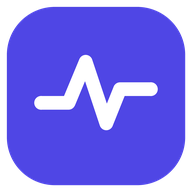
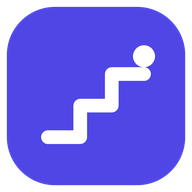
Replace the pulse-wave brand mark with the learning staircase

Changed region(s): [[0.1562, 0.2188, 0.8438, 0.75]]

diff --git a/design-system/foundations/brand.html b/design-system/foundations/brand.html
@@ -1,7 +1,7 @@
 <!-- @dsCard group="Foundations" name="ブランド" subtitle="ロゴ実物・ロックアップ・使用ルール・代表コピー・免責文言" width="900" height="760" -->
 <!--
   使い方 (AI向け):
-  - ロゴマークはパルス波形 (.brand-mark)。角丸スクエア+primary塗りに白の波形ライン1本。viewBoxとパスは不変、width/heightのみ拡大縮小してよい。
+  - ロゴマークは学びの階段 (.brand-mark)。角丸スクエア+primary塗りに、白の階段ライン+到達点ドット。viewBoxとパスは不変、width/heightのみ拡大縮小してよい。
   - ロックアップは「マーク + 臨床学術WG」の組合せのみ。ワードマークを単独で図形化したり、旧 Learning Loop ロゴと混在させたりしない。
   - 免責文言・テーマ分類6語彙は一字一句・語順とも変更せずそのまま流用する。
 -->
@@ -121,14 +121,14 @@
     <div class="mark-card panel">
       <svg class="brand-mark" width="28" height="28" viewBox="0 0 28 28" xmlns="http://www.w3.org/2000/svg">
         <rect x="1" y="1" width="26" height="26" rx="7" fill="#4f46e5"/>
-        <path d="M6 15h4l2.5-6 3 9 2-5h4.5" fill="none" stroke="#ffffff" stroke-width="2" stroke-linecap="round" stroke-linejoin="round"/>
+        <path d="M7 20h4.7v-4.6h4.6v-4.6H21" fill="none" stroke="#ffffff" stroke-width="2" stroke-linecap="round" stroke-linejoin="round"/><circle cx="21" cy="8.2" r="1.6" fill="#ffffff"/>
       </svg>
       <span class="mark-caption">標準 28px</span>
     </div>
     <div class="mark-card panel">
       <svg class="brand-mark" width="96" height="96" viewBox="0 0 28 28" xmlns="http://www.w3.org/2000/svg">
         <rect x="1" y="1" width="26" height="26" rx="7" fill="#4f46e5"/>
-        <path d="M6 15h4l2.5-6 3 9 2-5h4.5" fill="none" stroke="#ffffff" stroke-width="2" stroke-linecap="round" stroke-linejoin="round"/>
+        <path d="M7 20h4.7v-4.6h4.6v-4.6H21" fill="none" stroke="#ffffff" stroke-width="2" stroke-linecap="round" stroke-linejoin="round"/><circle cx="21" cy="8.2" r="1.6" fill="#ffffff"/>
       </svg>
       <span class="mark-caption">拡大 96px (viewBox・パス不変)</span>
     </div>
@@ -138,7 +138,7 @@
   <div class="lockup-card panel">
     <svg class="brand-mark" width="28" height="28" viewBox="0 0 28 28" xmlns="http://www.w3.org/2000/svg">
       <rect x="1" y="1" width="26" height="26" rx="7" fill="#4f46e5"/>
-      <path d="M6 15h4l2.5-6 3 9 2-5h4.5" fill="none" stroke="#ffffff" stroke-width="2" stroke-linecap="round" stroke-linejoin="round"/>
+      <path d="M7 20h4.7v-4.6h4.6v-4.6H21" fill="none" stroke="#ffffff" stroke-width="2" stroke-linecap="round" stroke-linejoin="round"/><circle cx="21" cy="8.2" r="1.6" fill="#ffffff"/>
     </svg>
     <span class="brand-name">臨床学術WG</span>
   </div>
@@ -147,15 +147,15 @@
   <ul class="rule-list panel">
     <li><b>最小サイズ:</b> マークは20px相当を下回らせない。20px未満ではワードマークを外し、マーク単体でも使わない。</li>
     <li><b>余白:</b> マークの周囲にマーク幅の0.5倍以上のクリアスペースを確保する。</li>
-    <li><b>改変禁止:</b> 形・色・比率(角丸rx=7/28・波形パスの座標)を変更しない。塗り色の差し替えや単色化もしない。</li>
-    <li><b>旧ロゴ混在禁止:</b> 旧 Learning Loop ロゴや代替アイコンを同一資料内で併用しない。</li>
+    <li><b>改変禁止:</b> 形・色・比率(角丸rx=7/28・階段パスと到達点ドットの座標)を変更しない。塗り色の差し替えや単色化もしない。</li>
+    <li><b>旧ロゴ混在禁止:</b> 旧ロゴ (Learning Loop・パルス波形) や代替アイコンを同一資料内で併用しない。</li>
   </ul>
 
   <div class="spec-label">ダーク面での見え方</div>
   <div class="dark-demo">
     <svg class="brand-mark" width="28" height="28" viewBox="0 0 28 28" xmlns="http://www.w3.org/2000/svg">
       <rect x="1" y="1" width="26" height="26" rx="7" fill="#4f46e5"/>
-      <path d="M6 15h4l2.5-6 3 9 2-5h4.5" fill="none" stroke="#ffffff" stroke-width="2" stroke-linecap="round" stroke-linejoin="round"/>
+      <path d="M7 20h4.7v-4.6h4.6v-4.6H21" fill="none" stroke="#ffffff" stroke-width="2" stroke-linecap="round" stroke-linejoin="round"/><circle cx="21" cy="8.2" r="1.6" fill="#ffffff"/>
     </svg>
     <span class="brand-name">臨床学術WG</span>
   </div>

diff --git a/design-system/templates/social.html b/design-system/templates/social.html
@@ -144,7 +144,7 @@
           </div>
           <div class="sq-foot">
             <div class="lockup">
-              <svg class="lockup-mark" width="68" height="68" viewBox="0 0 28 28" aria-hidden="true"><rect x="1" y="1" width="26" height="26" rx="7" fill="#4f46e5"/><path d="M6 15h4l2.5-6 3 9 2-5h4.5" fill="none" stroke="#ffffff" stroke-width="2" stroke-linecap="round" stroke-linejoin="round"/></svg>
+              <svg class="lockup-mark" width="68" height="68" viewBox="0 0 28 28" aria-hidden="true"><rect x="1" y="1" width="26" height="26" rx="7" fill="#4f46e5"/><path d="M7 20h4.7v-4.6h4.6v-4.6H21" fill="none" stroke="#ffffff" stroke-width="2" stroke-linecap="round" stroke-linejoin="round"/><circle cx="21" cy="8.2" r="1.6" fill="#ffffff"/></svg>
               <span class="lockup-name">臨床学術WG</span>
             </div>
           </div>
@@ -168,7 +168,7 @@
           </div>
           <div class="og-bottom">
             <div class="lockup">
-              <svg class="lockup-mark" width="44" height="44" viewBox="0 0 28 28" aria-hidden="true"><rect x="1" y="1" width="26" height="26" rx="7" fill="#4f46e5"/><path d="M6 15h4l2.5-6 3 9 2-5h4.5" fill="none" stroke="#ffffff" stroke-width="2" stroke-linecap="round" stroke-linejoin="round"/></svg>
+              <svg class="lockup-mark" width="44" height="44" viewBox="0 0 28 28" aria-hidden="true"><rect x="1" y="1" width="26" height="26" rx="7" fill="#4f46e5"/><path d="M7 20h4.7v-4.6h4.6v-4.6H21" fill="none" stroke="#ffffff" stroke-width="2" stroke-linecap="round" stroke-linejoin="round"/><circle cx="21" cy="8.2" r="1.6" fill="#ffffff"/></svg>
               <span class="lockup-name">臨床学術ワーキンググループ</span>
             </div>
           </div>

diff --git a/design-system/tokens/tokens.css b/design-system/tokens/tokens.css
@@ -62,13 +62,14 @@
   --warning-tint: rgba(180, 83, 9, 0.12);
   --danger-tint: rgba(185, 28, 28, 0.12);
 
-  /* ロゴマーク (パルス波形)
-     角丸スクエア (rx=7/28) の primary塗りに、白のパルス波形ライン (stroke 2/28)。
-     学びの継続的なリズム・臨床のバイタルサインを表す。
+  /* ロゴマーク (学びの階段)
+     角丸スクエア (rx=7/28) の primary塗りに、白の階段ライン (stroke 2/28) と到達点ドット。
+     入門→標準→実践と段階を上がるコース設計・学びの積み上げを表す。
      サイト実体は public/images/logo.svg (ヘッダーは app/components/app-header.tsx に同一パス)。
      SVGパス: <rect x="1" y="1" width="26" height="26" rx="7" fill="var(--primary)"/>
-              <path d="M6 15h4l2.5-6 3 9 2-5h4.5" fill="none" stroke="var(--on-primary)"
-                    stroke-width="2" stroke-linecap="round" stroke-linejoin="round"/> (viewBox 0 0 28 28)
+              <path d="M7 20h4.7v-4.6h4.6v-4.6H21" fill="none" stroke="var(--on-primary)"
+                    stroke-width="2" stroke-linecap="round" stroke-linejoin="round"/>
+              <circle cx="21" cy="8.2" r="1.6" fill="var(--on-primary)"/> (viewBox 0 0 28 28)
      色・形・比率は改変しない。プレビューHTMLには同じインラインSVGを複製する。 */
 }
 

diff --git a/design-system/templates/onepager.html b/design-system/templates/onepager.html
@@ -141,7 +141,7 @@
     <!-- ヘッダー -->
     <header class="sheet-head">
       <div class="lockup">
-        <svg class="lockup-mark" width="28" height="28" viewBox="0 0 28 28" aria-hidden="true"><rect x="1" y="1" width="26" height="26" rx="7" fill="#4f46e5"/><path d="M6 15h4l2.5-6 3 9 2-5h4.5" fill="none" stroke="#ffffff" stroke-width="2" stroke-linecap="round" stroke-linejoin="round"/></svg>
+        <svg class="lockup-mark" width="28" height="28" viewBox="0 0 28 28" aria-hidden="true"><rect x="1" y="1" width="26" height="26" rx="7" fill="#4f46e5"/><path d="M7 20h4.7v-4.6h4.6v-4.6H21" fill="none" stroke="#ffffff" stroke-width="2" stroke-linecap="round" stroke-linejoin="round"/><circle cx="21" cy="8.2" r="1.6" fill="#ffffff"/></svg>
         <span class="lockup-name">臨床学術WG</span>
       </div>
       <span class="chip">開催案内</span>

diff --git a/design-system/templates/lp.html b/design-system/templates/lp.html
@@ -160,7 +160,7 @@
     <!-- (a) トップバー -->
     <header class="panel topbar">
       <div class="lockup">
-        <svg class="lockup-mark" width="28" height="28" viewBox="0 0 28 28" aria-hidden="true"><rect x="1" y="1" width="26" height="26" rx="7" fill="#4f46e5"/><path d="M6 15h4l2.5-6 3 9 2-5h4.5" fill="none" stroke="#ffffff" stroke-width="2" stroke-linecap="round" stroke-linejoin="round"/></svg>
+        <svg class="lockup-mark" width="28" height="28" viewBox="0 0 28 28" aria-hidden="true"><rect x="1" y="1" width="26" height="26" rx="7" fill="#4f46e5"/><path d="M7 20h4.7v-4.6h4.6v-4.6H21" fill="none" stroke="#ffffff" stroke-width="2" stroke-linecap="round" stroke-linejoin="round"/><circle cx="21" cy="8.2" r="1.6" fill="#ffffff"/></svg>
         <span class="lockup-name">臨床学術WG</span>
       </div>
       <nav class="topnav">

diff --git a/design-system/templates/slides.html b/design-system/templates/slides.html
@@ -194,7 +194,7 @@
       </div>
       <div class="cover-foot">
         <div class="lockup">
-          <svg class="lockup-mark" width="28" height="28" viewBox="0 0 28 28" aria-hidden="true"><rect x="1" y="1" width="26" height="26" rx="7" fill="#4f46e5"/><path d="M6 15h4l2.5-6 3 9 2-5h4.5" fill="none" stroke="#ffffff" stroke-width="2" stroke-linecap="round" stroke-linejoin="round"/></svg>
+          <svg class="lockup-mark" width="28" height="28" viewBox="0 0 28 28" aria-hidden="true"><rect x="1" y="1" width="26" height="26" rx="7" fill="#4f46e5"/><path d="M7 20h4.7v-4.6h4.6v-4.6H21" fill="none" stroke="#ffffff" stroke-width="2" stroke-linecap="round" stroke-linejoin="round"/><circle cx="21" cy="8.2" r="1.6" fill="#ffffff"/></svg>
           <span class="lockup-name">臨床学術WG</span>
         </div>
       </div>

diff --git a/app/components/app-header.tsx b/app/components/app-header.tsx
@@ -57,13 +57,14 @@ export function AppHeader() {
           <svg width="28" height="28" viewBox="0 0 28 28" aria-hidden="true">
             <rect x="1" y="1" width="26" height="26" rx="7" fill="var(--primary)" />
             <path
-              d="M6 15h4l2.5-6 3 9 2-5h4.5"
+              d="M7 20h4.7v-4.6h4.6v-4.6H21"
               fill="none"
               stroke="var(--on-primary)"
               strokeWidth="2"
               strokeLinecap="round"
               strokeLinejoin="round"
             />
+            <circle cx="21" cy="8.2" r="1.6" fill="var(--on-primary)" />
           </svg>
           <span>臨床学術WG</span>
         </Link>

diff --git a/design-system/components/navigation.html b/design-system/components/navigation.html
@@ -80,7 +80,7 @@
         <a class="brand" href="#">
           <svg width="28" height="28" viewBox="0 0 28 28" aria-hidden="true">
             <rect x="1" y="1" width="26" height="26" rx="7" fill="#4f46e5"/>
-            <path d="M6 15h4l2.5-6 3 9 2-5h4.5" fill="none" stroke="#ffffff" stroke-width="2" stroke-linecap="round" stroke-linejoin="round"/>
+            <path d="M7 20h4.7v-4.6h4.6v-4.6H21" fill="none" stroke="#ffffff" stroke-width="2" stroke-linecap="round" stroke-linejoin="round"/><circle cx="21" cy="8.2" r="1.6" fill="#ffffff"/>
           </svg>
           <span>臨床学術WG</span>
         </a>

diff --git a/scripts/generate_brand_icons.py b/scripts/generate_brand_icons.py
@@ -3,8 +3,9 @@
 
 Source of truth: public/images/logo.svg (viewBox 0 0 28 28)
   <rect x="1" y="1" width="26" height="26" rx="7" fill="#4f46e5"/>
-  <path d="M6 15h4l2.5-6 3 9 2-5h4.5" fill="none" stroke="#ffffff"
+  <path d="M7 20h4.7v-4.6h4.6v-4.6H21" fill="none" stroke="#ffffff"
         stroke-width="2" stroke-linecap="round" stroke-linejoin="round"/>
+  <circle cx="21" cy="8.2" r="1.6" fill="#ffffff"/>
 
 Outputs (into public/):
   favicon.svg          … logo.svg と同一内容 (aria属性なしのプレーン版)
@@ -26,8 +27,9 @@ PUBLIC = ROOT / "public"
 VIEWBOX = 28.0
 PRIMARY = (0x4F, 0x46, 0xE5, 255)
 WHITE = (255, 255, 255, 255)
-# "M6 15h4l2.5-6 3 9 2-5h4.5" を展開した頂点列
-WAVE = [(6, 15), (10, 15), (12.5, 9), (15.5, 18), (17.5, 13), (22, 13)]
+# "M7 20h4.7v-4.6h4.6v-4.6H21" を展開した頂点列 (学びの階段)
+STEPS = [(7, 20), (11.7, 20), (11.7, 15.4), (16.3, 15.4), (16.3, 10.8), (21, 10.8)]
+DOT = (21, 8.2, 1.6)  # 到達点ドット (cx, cy, r)
 STROKE = 2.0
 RECT = (1.0, 1.0, 27.0, 27.0)
 RECT_RADIUS = 7.0
@@ -58,19 +60,23 @@ def draw_mark(size: int, full_bleed: bool) -> Image.Image:
             fill=PRIMARY,
         )
 
-    pts = [(x * scale + offset, y * scale + offset) for x, y in WAVE]
+    pts = [(x * scale + offset, y * scale + offset) for x, y in STEPS]
     w = STROKE * scale
     d.line(pts, fill=WHITE, width=round(w), joint="curve")
     for cx, cy in (pts[0], pts[-1]):  # 丸線端
         r = w / 2
         d.ellipse((cx - r, cy - r, cx + r, cy + r), fill=WHITE)
+    dx, dy, dr = DOT
+    cx, cy, r = dx * scale + offset, dy * scale + offset, dr * scale
+    d.ellipse((cx - r, cy - r, cx + r, cy + r), fill=WHITE)
 
     return img.resize((size, size), Image.LANCZOS)
 
 
 FAVICON_SVG = """<svg width="28" height="28" viewBox="0 0 28 28" xmlns="http://www.w3.org/2000/svg">
   <rect x="1" y="1" width="26" height="26" rx="7" fill="#4f46e5"/>
-  <path d="M6 15h4l2.5-6 3 9 2-5h4.5" fill="none" stroke="#ffffff" stroke-width="2" stroke-linecap="round" stroke-linejoin="round"/>
+  <path d="M7 20h4.7v-4.6h4.6v-4.6H21" fill="none" stroke="#ffffff" stroke-width="2" stroke-linecap="round" stroke-linejoin="round"/>
+  <circle cx="21" cy="8.2" r="1.6" fill="#ffffff"/>
 </svg>
 """
 

diff --git a/design-system/guidelines.md b/design-system/guidelines.md
@@ -42,7 +42,7 @@
 - セマンティック: 成功/完了=`--success #15803d`、注意/保留=`--warning #b45309`、エラー/不正解=`--danger #b91c1c`。バッジ地は各色の12%ティント (`rgba(21,128,61,0.12)` 等)。
 - カテゴリ6色 (`--cat-1`〜`--cat-6`): テーマ分類の固定順に割り当てるチップ/系列色。順番を入れ替えたり文字色に使ったりしない。
 - **禁止**: 純黒 `#000` 文字、トークン外の色、彩度の高い装飾色、グラデーション (地色・ボタン・見出しのグラデは使わない。面はフラット+1pxボーダーが原則)。
-- ロゴマークはパルス波形。primary塗りの角丸スクエアに白の波形ライン1本で、学びの継続的なリズムを表す。サイト実体は `public/images/logo.svg`。形・色・比率を改変しない (SVGパスは tokens.css 末尾に記載、見本は `foundations/brand.html`)。
+- ロゴマークは学びの階段。primary塗りの角丸スクエアに白の階段ライン+到達点ドットで、段階を上がる学びを表す。サイト実体は `public/images/logo.svg`。形・色・比率を改変しない (SVGパスは tokens.css 末尾に記載、見本は `foundations/brand.html`)。
 
 ## 4. タイポグラフィ
 
@@ -114,7 +114,7 @@
 ## 8. やってはいけないこと (総括)
 
 1. トークン外の色・角丸・影・フォントサイズを発明しない
-2. パルス波形マークの形・色・比率を改変しない。旧 Learning Loop ロゴや代替アイコンを混在させない
+2. 学びの階段マークの形・色・比率を改変しない。旧ロゴ (Learning Loop・パルス波形) や代替アイコンを混在させない
 3. 旧デザインの語彙 (暖色オフホワイト地・ティール・茶アクセント・ピル型ボタン・28px角丸パネル) に戻さない
 4. 絵文字・感嘆符・誇大コピーを使わない
 5. 実在の患者・個人名を出さない (架空例も匿名表記)

diff --git a/design-system/README.md b/design-system/README.md
@@ -48,7 +48,7 @@ claude
 2. 各プレビューHTMLの `<style>` 冒頭にある `:root { … }` ブロックは tokens.css のコピーなので、一括置換で追従させる:
    - 置換対象は全HTMLの `--bg` 〜 `--font-sans` の変数値。エディタの全体検索置換か、Claude Code に「tokens.css の変更を design-system/ 配下の全HTMLの :root に反映して」と頼む。
 3. `guidelines.md` の第1〜2節 (ブランドの正体・声とトーン) と、見本内のサンプル文言を新ブランドの文脈に書き換える。
-4. ロゴ (`foundations/brand.html` のインラインのパルス波形マーク。各プレビューにも同じSVGパスが複製されている) を差し替える。外部画像参照は作らない。
+4. ロゴ (`foundations/brand.html` のインラインの「学びの階段」マーク。各プレビューにも同じSVGパスが複製されている) を差し替える。外部画像参照は作らない。
 5. ブラウザで全プレビューを開いて崩れ確認 → sync。
 
 ## OGP画像の書き出し
